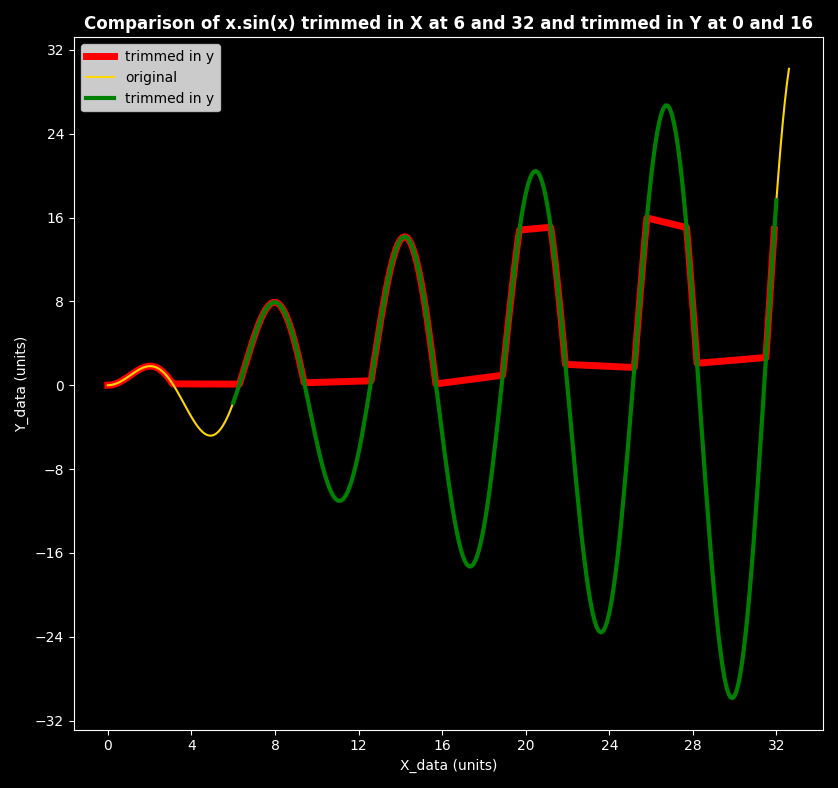
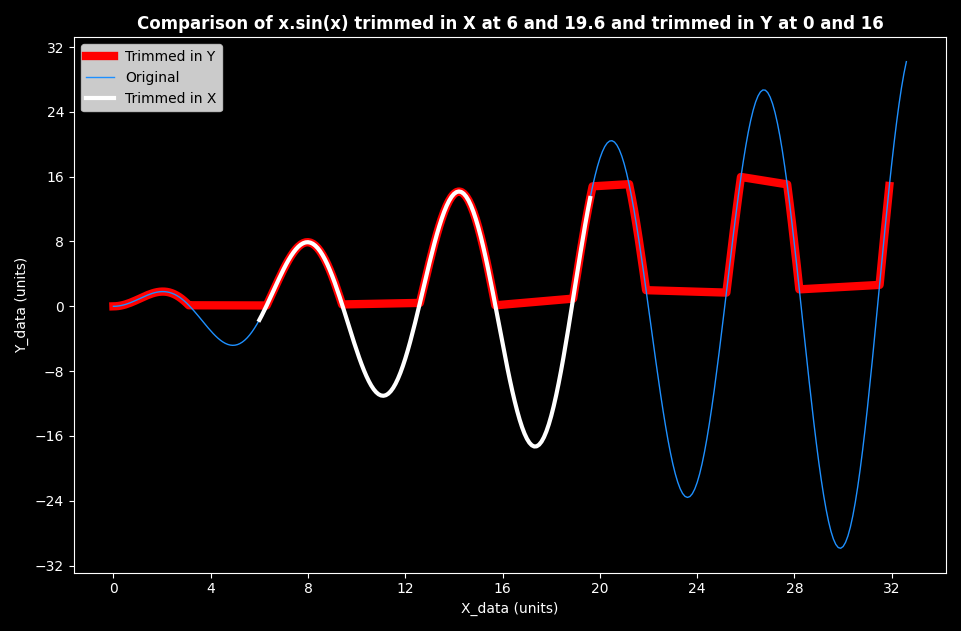
help

diff --git a/help/curve_toolbox.html b/help/curve_toolbox.html
@@ -27,15 +27,26 @@
 
         <h2>Presentation</h2>
         <p>In the folder <code>tools</code>, there is another Python script called <code>curve_toolbox.py</code>. <em>The purpose of this script is to process the curve files before plotting them with PlotView</em>.</p>
-        <p>The folder <code>tools/CSV_files</code> contains some examples of CSV files. The script <code>curve_toolbox.py</code> expects the CSV curve files in this folder. After processing, the modified CSV files is saved in the same folder with a word prefixing the original name. For example: <code>trimmed_xsinx.csv</code> after trimming the input file <code>xsinx.csv</code>.</p>
-        <p>This script is a console script. Commands are letters or numbers in brackets '[' and ']'. the letters could either lower case or upper case. The CSV files in <code>CSV_files</code> are listed and referenced with numbers for selection.</p>
-        <p>The following image shows an issue with curves having several identical Y values. The issue is the same of the X axis. In this case trimming in the Y axis with <code>start = 0</code> and <code>end = 16</code> cuts <em>all the parts of the curve out of this range</em>. In this case, trimming in X is more appropriate as shown. <br><img class="image_l" src="../image/curve_tool_box_trim.png" title="Trimming issues" alt="Trimming issues"></p>
+        <p>The script <code>curve_toolbox.py</code> <strong>expects the CSV curve files in the folder</strong> <code>tools/CSV_files</code>. After processing, the modified CSV files is saved in the same folder with a modified file name. For example: <code>trimmed_xsinx.csv</code> after trimming the input file <code>xsinx.csv</code>. The folder <code>test</code> contains some examples of CSV files.</p>
+        <p>This script is a console script. Commands are selected through letters either lower case or upper case in brackets '[' and ']'. The CSV files in <code>CSV_files</code> are listed and referenced with numbers for selection.</p>
+        <p><img class="image_l" src="../image/curve_tool_box_main.png" title="Curve_toolbox main menu" alt="Curve_toolbox main menu"></p>
+        <p>It is recommended to <em>plot a CSV curve before trimming it</em>. Then it is possible to zoom to the desired area and get a good approximation of any point on the curve by moving the pointer onto a point: X and Y coordinates of the pointer on the lower right corner of the plot. <br><img class="image_m" src="../image/curve_tool_box_coord.png" title="Pointer coordinates" alt="Pointer coordinates"></p>
 
-        <h2>Overview of commands</h2>
+        <h2>Split</h2>
+        <p>The purpose of this function is to split a CSV file containing more than 2 columns in CSV files containing only 2 columns for plotting. All these files will have the same first column (or X data) and different second column (or Y data).</p>
+        <p>Here is an example of initial file selecting column 1 as X data: <br>
+        <img class="image_m" src="../image/curve_tool_box_split_example_1.png" title="Split - initial file" alt="Split - initial file"><br>
+        <img class="image_s" src="../image/curve_tool_box_split_example_2.png" title="Split - split file a" alt="Split - split file a"><img class="image_s" src="../image/curve_tool_box_split_example_3.png" title="Split - split file b" alt="Split - split file b"><img class="image_s" src="../image/curve_tool_box_split_example_4.png" title="Split - split file c" alt="Split - split file c"><img class="image_s" src="../image/curve_tool_box_split_example_4.png" title="Split - split file c" alt="Split - split file c"><img class="image_s" src="../image/curve_tool_box_split_example_4.png" title="Split - split file d" alt="Split - split file d">
+        </p>
 
-        <h3>Trim the beginning and the end of the curve</h3>
-        <p></p>
+        <h2>Trim</h2>
+        <p>The purpose of this function is to "cut" one end or both end of a curve base on X values or Y values; </p>
 
+        <h3>Trimming only one side of the curve</h3>
+        <p>It is possible by entering the desired value for one end and the first or last value for the other end.</p>
+
+        <h3>Possible issues</h3>
+        <p>The following image shows an issue with a curve having several identical Y values.  In this case trimming in the Y axis with <code>start = 0</code> and <code>end = 16</code> cuts <em>all the parts of the curve out of this range</em> and not only the last peak for values above 16. In this case, trimming in X allows to "shorten" the curve.<br><img class="image_l" src="../image/curve_tool_box_trim.png" title="Trimming issues" alt="Trimming issues"></p>
 
         <p class="retour_haut_page"><a href="#">Top of page</a></p>
     </article>
